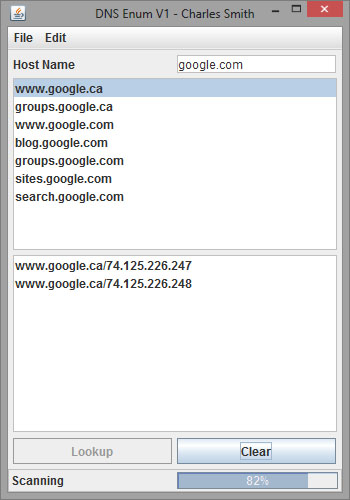
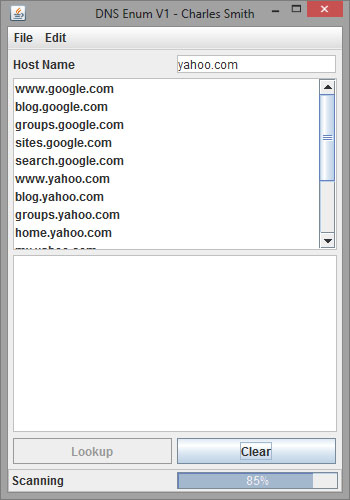
Fixed the IP Address list...

diff --git a/Lookup.java b/Lookup.java
@@ -43,6 +43,7 @@ public class Lookup extends SwingWorker<Void, Void> {
 
             // output the found sub-domain addresses
             for( String cur : curAddresses ){
+                cur = cur.substring( cur.lastIndexOf( '/' ) + 1 );
                 subd.ipList.addElement( new IPs( cur ) );
             }
             // increment the progress bar
